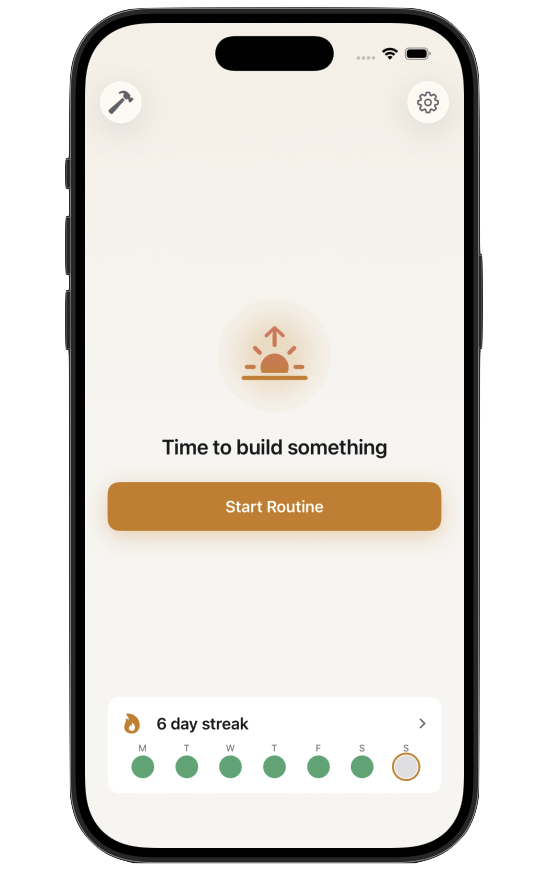
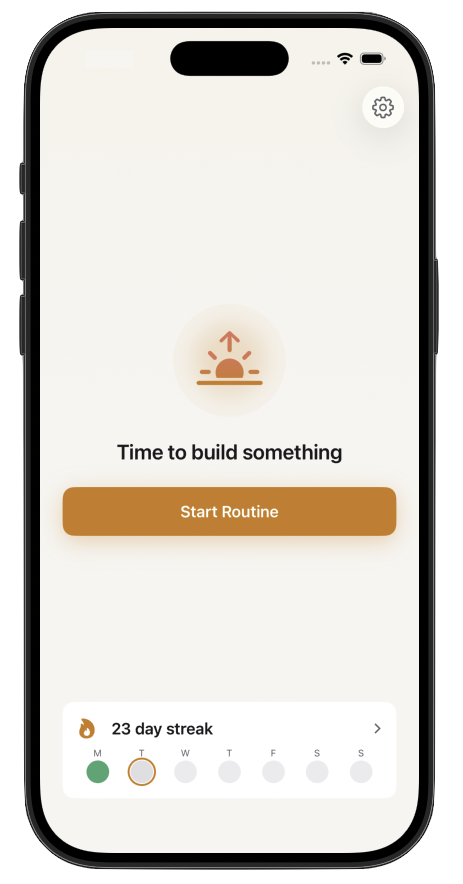
SEO improvements and Coming Soon placeholder
- Replace App Store links with Coming Soon buttons until app is approved
- Fix appicon.png case sensitivity for Linux-based hosts
- Add og:locale, theme-color, favicon.ico meta tags
- Improve h1 keyword coverage and screenshot alt tags
- Expand Schema.org with url, screenshots, availableOnDevice
- Add changefreq to sitemap
- Fix screenshot aspect ratio (height-based sizing)
- Update screenshots with latest design

diff --git a/index.html b/index.html
@@ -19,7 +19,9 @@
     <meta name="twitter:title" content="Rise - Your Morning Ritual, Reinvented">
     <meta name="twitter:description" content="Smart alarms, focus timers, and streak tracking. Build a morning routine that sticks.">
     <meta name="twitter:image" content="https://risemorning.app/assets/ogshare.png">
-    <meta name="apple-itunes-app" content="app-id=0000000000">
+    <meta property="og:locale" content="en_US">
+    <meta name="theme-color" content="#D4882A">
+    <link rel="icon" href="/favicon.ico" sizes="any">
     <link rel="icon" type="image/png" sizes="192x192" href="assets/appicon.png">
     <link rel="apple-touch-icon" href="assets/appicon.png">
     <link rel="preconnect" href="https://eu.i.posthog.com">
@@ -274,6 +276,25 @@
             height: 52px;
         }
 
+        .coming-soon {
+            display: inline-flex;
+            align-items: center;
+            gap: 8px;
+            background: var(--card-bg);
+            border: 1px solid var(--card-border);
+            color: var(--text-secondary);
+            padding: 12px 24px;
+            border-radius: 12px;
+            font-size: 15px;
+            font-weight: 600;
+            cursor: default;
+        }
+
+        .coming-soon svg {
+            width: 20px;
+            height: 20px;
+        }
+
         .hero-image {
             flex-shrink: 0;
         }
@@ -296,7 +317,10 @@
         }
 
         .screenshots-strip img {
-            width: 220px;
+            width: auto;
+            height: 420px;
+            border-radius: 24px;
+            object-fit: contain;
             transition: transform 0.3s;
         }
 
@@ -659,7 +683,7 @@
             .hero-title { font-size: 40px; }
             .hero-buttons { justify-content: center; }
             .hero-phone { width: 200px; border-radius: 28px; }
-            .screenshots-strip img { width: 180px; border-radius: 20px; }
+            .screenshots-strip img { height: 360px; border-radius: 20px; }
             .steps-grid { grid-template-columns: repeat(2, 1fr); }
         }
 
@@ -673,14 +697,14 @@
             .features-grid { grid-template-columns: repeat(2, 1fr); }
             .steps-grid { grid-template-columns: 1fr 1fr; }
             .screenshots-strip { gap: 16px; }
-            .screenshots-strip img { width: 150px; border-radius: 18px; }
+            .screenshots-strip img { height: 300px; border-radius: 18px; }
         }
 
         @media (max-width: 600px) {
             .features-grid { grid-template-columns: 1fr; }
             .pricing-cards { grid-template-columns: 1fr; }
             .steps-grid { grid-template-columns: 1fr; }
-            .screenshots-strip img { width: 130px; border-radius: 16px; }
+            .screenshots-strip img { height: 260px; border-radius: 16px; }
         }
 
         @media (max-width: 480px) {
@@ -689,7 +713,7 @@
             .section-title { font-size: 24px; }
             .pricing-amount { font-size: 36px; }
             .screenshots-strip { gap: 12px; }
-            .screenshots-strip img { width: 110px; border-radius: 14px; }
+            .screenshots-strip img { height: 220px; border-radius: 14px; }
         }
 
         /* Schema.org */
@@ -701,9 +725,17 @@
         "@context": "https://schema.org",
         "@type": "SoftwareApplication",
         "name": "Rise",
-        "description": "Build a powerful morning routine with smart alarms, focus timers, and streak tracking.",
+        "description": "Build a powerful morning routine with smart alarms, focus timers, and streak tracking. Wake up with purpose every single day.",
         "applicationCategory": "LifestyleApplication",
         "operatingSystem": "iOS",
+        "availableOnDevice": "iPhone, iPad",
+        "url": "https://risemorning.app/",
+        "screenshot": [
+            "https://risemorning.app/assets/screenshot-home.png",
+            "https://risemorning.app/assets/screenshot-alarm.png",
+            "https://risemorning.app/assets/screenshot-focus.png",
+            "https://risemorning.app/assets/screenshot-streak.png"
+        ],
         "offers": [
             {
                 "@type": "Offer",
@@ -740,7 +772,7 @@
             <a href="#pricing">Pricing</a>
         </div>
         <div class="nav-right">
-            <a href="https://apps.apple.com/app/id0000000000" class="nav-download" id="nav-download" onclick="posthog.capture('nav_app_store_click')">Download</a>
+            <span class="nav-download" style="cursor: default; opacity: 0.8;">Coming Soon</span>
             <button class="theme-toggle" id="theme-toggle" aria-label="Toggle theme">
                 <svg class="moon-icon" viewBox="0 0 24 24" fill="none" stroke="currentColor" stroke-width="2" stroke-linecap="round" stroke-linejoin="round"><path d="M21 12.79A9 9 0 1 1 11.21 3 7 7 0 0 0 21 12.79z"/></svg>
                 <svg class="sun-icon" viewBox="0 0 24 24" fill="none" stroke="currentColor" stroke-width="2" stroke-linecap="round" stroke-linejoin="round"><circle cx="12" cy="12" r="5"/><line x1="12" y1="1" x2="12" y2="3"/><line x1="12" y1="21" x2="12" y2="23"/><line x1="4.22" y1="4.22" x2="5.64" y2="5.64"/><line x1="18.36" y1="18.36" x2="19.78" y2="19.78"/><line x1="1" y1="12" x2="3" y2="12"/><line x1="21" y1="12" x2="23" y2="12"/><line x1="4.22" y1="19.78" x2="5.64" y2="18.36"/><line x1="18.36" y1="5.64" x2="19.78" y2="4.22"/></svg>
@@ -755,17 +787,18 @@
         <div class="hero-inner">
             <div class="hero-content">
                 <p class="hero-label">Morning Routine App</p>
-                <h1 class="hero-title">Wake up with <span class="highlight">purpose.</span></h1>
+                <h1 class="hero-title">Your morning routine, <span class="highlight">reinvented.</span></h1>
                 <p class="hero-subtitle">Rise guides you through a calm, structured morning, from alarm to focus session, so you can start every day intentionally.</p>
                 <p class="hero-pricing">Free to try. <strong>Subscription unlocks everything.</strong></p>
                 <div class="hero-buttons">
-                    <a href="https://apps.apple.com/app/id0000000000" class="app-store-badge" id="hero-download" onclick="posthog.capture('hero_app_store_click')">
-                        <img src="https://tools.applemediaservices.com/api/badges/download-on-the-app-store/black/en-us?size=250x83" alt="Download on the App Store">
-                    </a>
+                    <span class="coming-soon">
+                        <svg viewBox="0 0 24 24" fill="currentColor"><path d="M18.71 19.5c-.83 1.24-1.71 2.45-3.05 2.47-1.34.03-1.77-.79-3.29-.79-1.53 0-2 .77-3.27.82-1.31.05-2.3-1.32-3.14-2.53C4.25 17 2.94 12.45 4.7 9.39c.87-1.52 2.43-2.48 4.12-2.51 1.28-.02 2.5.87 3.29.87.78 0 2.26-1.07 3.8-.91.65.03 2.47.26 3.64 1.98-.09.06-2.17 1.28-2.15 3.81.03 3.02 2.65 4.03 2.68 4.04-.03.07-.42 1.44-1.38 2.83M13 3.5c.73-.83 1.94-1.46 2.94-1.5.13 1.17-.34 2.35-1.04 3.19-.69.85-1.83 1.51-2.95 1.42-.15-1.15.41-2.35 1.05-3.11z"/></svg>
+                        Coming soon to iOS
+                    </span>
                 </div>
             </div>
             <div class="hero-image">
-                <img src="assets/screenshot-home.png" alt="Rise app home screen showing morning routine" class="hero-phone">
+                <img src="assets/screenshot-home.png" alt="Rise morning routine app home screen with alarm, focus timer, and streak tracker" class="hero-phone">
             </div>
         </div>
     </div>
@@ -812,10 +845,10 @@
         <p class="section-subtitle">Clean interface, warm tones, and zero distractions.</p>
     </div>
     <div class="screenshots-strip fade-in">
-        <img src="assets/screenshot-alarm.png" alt="Rise alarm screen">
-        <img src="assets/screenshot-focus.png" alt="Rise focus timer">
-        <img src="assets/screenshot-streak.png" alt="Rise streak tracking calendar">
-        <img src="assets/screenshot-winddown.png" alt="Rise wind down screen">
+        <img src="assets/screenshot-alarm.png" alt="Rise app alarm screen showing wake-up time and weekly streak">
+        <img src="assets/screenshot-focus.png" alt="Rise app focus timer session for morning productivity">
+        <img src="assets/screenshot-streak.png" alt="Rise app streak tracking calendar with daily completion heatmap">
+        <img src="assets/screenshot-winddown.png" alt="Rise app evening wind-down reminder for better sleep">
     </div>
 </section>
 
@@ -944,9 +977,10 @@
         <h2 class="section-title fade-in">Start your mornings right</h2>
         <p class="section-subtitle fade-in">Your morning sets the tone for your entire day. Make it count.</p>
         <div class="fade-in">
-            <a href="https://apps.apple.com/app/id0000000000" class="app-store-badge" id="footer-download" onclick="posthog.capture('footer_app_store_click')">
-                <img src="https://tools.applemediaservices.com/api/badges/download-on-the-app-store/white/en-us?size=250x83" alt="Download on the App Store">
-            </a>
+            <span class="coming-soon" style="border-color: rgba(255,255,255,0.15); background: rgba(255,255,255,0.08); color: rgba(255,255,255,0.7);">
+                <svg viewBox="0 0 24 24" fill="currentColor"><path d="M18.71 19.5c-.83 1.24-1.71 2.45-3.05 2.47-1.34.03-1.77-.79-3.29-.79-1.53 0-2 .77-3.27.82-1.31.05-2.3-1.32-3.14-2.53C4.25 17 2.94 12.45 4.7 9.39c.87-1.52 2.43-2.48 4.12-2.51 1.28-.02 2.5.87 3.29.87.78 0 2.26-1.07 3.8-.91.65.03 2.47.26 3.64 1.98-.09.06-2.17 1.28-2.15 3.81.03 3.02 2.65 4.03 2.68 4.04-.03.07-.42 1.44-1.38 2.83M13 3.5c.73-.83 1.94-1.46 2.94-1.5.13 1.17-.34 2.35-1.04 3.19-.69.85-1.83 1.51-2.95 1.42-.15-1.15.41-2.35 1.05-3.11z"/></svg>
+                Coming soon to iOS
+            </span>
         </div>
     </div>
 </section>

diff --git a/privacy.html b/privacy.html
@@ -11,6 +11,8 @@
     <meta property="og:type" content="website">
     <meta property="og:url" content="https://risemorning.app/privacy.html">
     <meta property="og:site_name" content="Rise">
+    <meta property="og:locale" content="en_US">
+    <meta name="theme-color" content="#D4882A">
     <meta name="robots" content="noindex">
     <link rel="icon" type="image/png" sizes="192x192" href="assets/appicon.png">
     <link rel="apple-touch-icon" href="assets/appicon.png">
